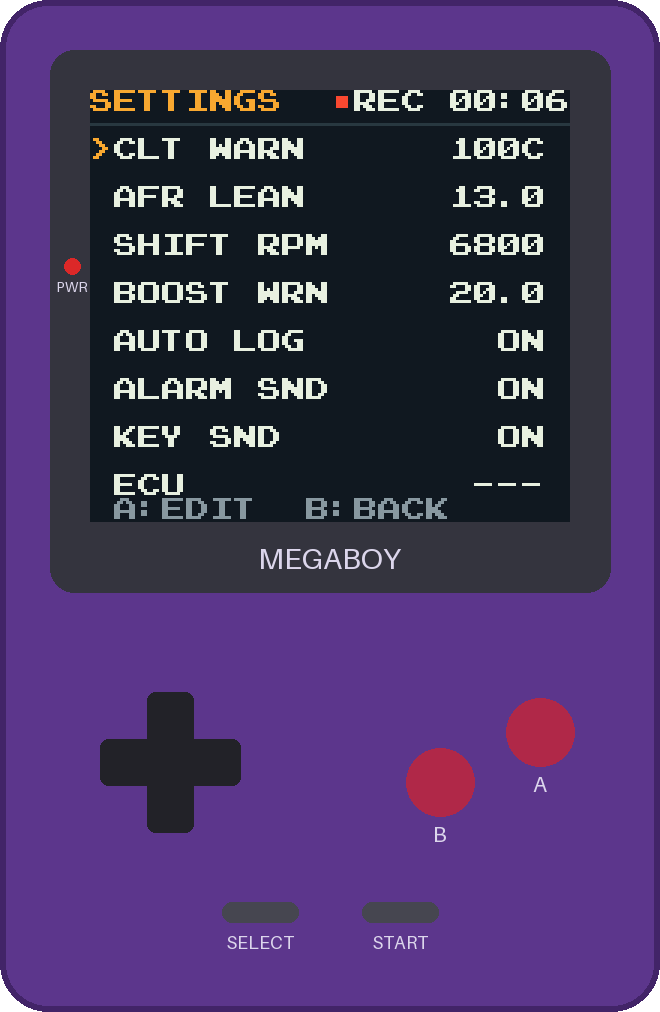
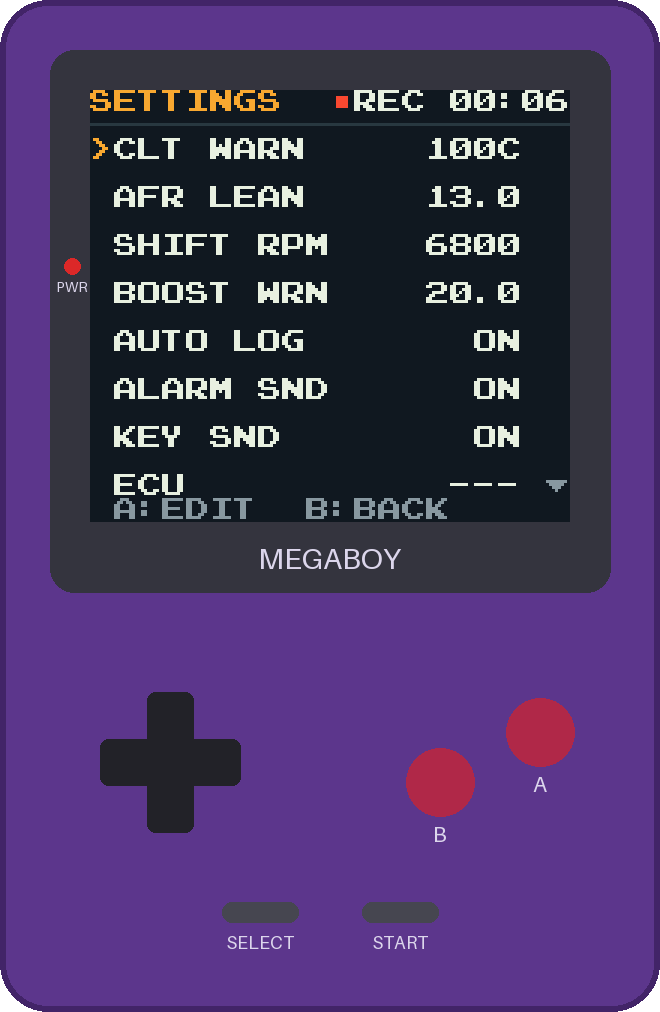
gbc: scroll settings and set clock

diff --git a/gbc/src/settings.c b/gbc/src/settings.c
@@ -5,12 +5,13 @@
 #include "app.h"
 #include "fmt.h"
 #include "hdr.h"
+#include "link.h"
 #include "save.h"
 #include "screen.h"
 #include "tiles.h"
 #include "ui.h"
 
-enum { K_TEMP, K_X10, K_INT, K_ONOFF, K_ECU };
+enum { K_TEMP, K_X10, K_INT, K_ONOFF, K_ECU, K_CLOCK };
 
 typedef struct {
     const char *label;
@@ -30,19 +31,46 @@ static const item_t items[] = {
     {"ALARM SND", &app.set.alarm_snd, 0, 1, 1, K_ONOFF},
     {"KEY SND", &app.set.key_snd, 0, 1, 1, K_ONOFF},
     {"ECU", &app.set.ecu, 0, 2, 1, K_ECU},
+    {"CLOCK", 0, 0, 0, 0, K_CLOCK},
 };
 #define ITEM_COUNT (sizeof items / sizeof items[0])
+#define VISIBLE 8u
 #define ITEM_Y0 2u
-#define VAL_X 13u
+#define VAL_X 12u
 #define VAL_W 6u
+#define MARK_X 19u
 #define FOOTER_Y 17u
 
 static uint8_t sel;
+static uint8_t top;
 static uint8_t editing;
 static int16_t edit_val;
 
 static uint8_t item_y(uint8_t i) {
-    return (uint8_t)(ITEM_Y0 + i * 2u);
+    return (uint8_t)(ITEM_Y0 + (i - top) * 2u);
+}
+
+static uint8_t visible(uint8_t i) {
+    return i >= top && i < top + VISIBLE;
+}
+
+static void draw_clock(uint8_t y) {
+    char s[VAL_W];
+    if (app.clk_state == LINK_CLK_NONE) {
+        ui_text(VAL_X, y, "NO RTC", PAL_DIM);
+        return;
+    }
+    if (app.clk_state != LINK_CLK_OK) {
+        ui_text(VAL_X, y, " UNSET", PAL_AMBER);
+        return;
+    }
+    s[0] = ' ';
+    s[1] = (char)('0' + app.clk.hh / 10u);
+    s[2] = (char)('0' + app.clk.hh % 10u);
+    s[3] = ':';
+    s[4] = (char)('0' + app.clk.mi / 10u);
+    s[5] = (char)('0' + app.clk.mi % 10u);
+    ui_textn(VAL_X, y, s, VAL_W, PAL_TEXT);
 }
 
 static void draw_value(uint8_t i) {
@@ -50,7 +78,16 @@ static void draw_value(uint8_t i) {
     char s[VAL_W];
     uint8_t live = editing && i == sel;
     uint8_t pal = live ? PAL_AMBER : PAL_TEXT;
-    int16_t v = live ? edit_val : *it->val;
+    uint8_t y = item_y(i);
+    int16_t v;
+    if (!visible(i)) {
+        return;
+    }
+    if (it->kind == K_CLOCK) {
+        draw_clock(y);
+        return;
+    }
+    v = live ? edit_val : *it->val;
     switch (it->kind) {
     case K_TEMP:
         fmt_int(s, VAL_W, v, 'C');
@@ -62,20 +99,20 @@ static void draw_value(uint8_t i) {
         fmt_int(s, VAL_W, v, 0);
         break;
     case K_ONOFF:
-        ui_text(VAL_X, item_y(i), v ? "    ON" : "   OFF", pal);
+        ui_text(VAL_X, y, v ? "    ON" : "   OFF", pal);
         return;
     case K_ECU:
-        ui_text(VAL_X, item_y(i), v == 1 ? "   MS1" : (v == 2 ? "   MS2" : "   ---"), pal);
+        ui_text(VAL_X, y, v == 1 ? "   MS1" : (v == 2 ? "   MS2" : "   ---"), pal);
         return;
     default:
         return;
     }
-    ui_textn(VAL_X, item_y(i), s, VAL_W, pal);
+    ui_textn(VAL_X, y, s, VAL_W, pal);
 }
 
 static void draw_cursor(void) {
     uint8_t i;
-    for (i = 0; i < ITEM_COUNT; i++) {
+    for (i = top; i < top + VISIBLE && i < ITEM_COUNT; i++) {
         uint8_t t = T_SPACE;
         if (i == sel) {
             t = tile_small(editing ? '*' : '>');
@@ -84,14 +121,48 @@ static void draw_cursor(void) {
     }
 }
 
+static void draw_list(void) {
+    uint8_t i;
+    uint8_t y;
+    for (y = ITEM_Y0; y < ITEM_Y0 + VISIBLE * 2u; y += 2u) {
+        ui_text(1, y, "                  ", PAL_TEXT);
+    }
+    for (i = top; i < top + VISIBLE && i < ITEM_COUNT; i++) {
+        ui_text(1, item_y(i), items[i].label, PAL_TEXT);
+        draw_value(i);
+    }
+    ui_tile(MARK_X, ITEM_Y0, top ? tile_small(CH_UP) : T_SPACE, PAL_DIM);
+    ui_tile(MARK_X, (uint8_t)(ITEM_Y0 + (VISIBLE - 1u) * 2u), top + VISIBLE < ITEM_COUNT ? tile_small(CH_DOWN) : T_SPACE,
+            PAL_DIM);
+    draw_cursor();
+}
+
 static void draw_footer(void) {
     ui_text(1, FOOTER_Y, editing ? "A:OK  B:CANCEL" : "A:EDIT  B:BACK", PAL_DIM);
+}
+
+static void sel_item(uint8_t i) {
+    uint8_t old = top;
+    sel = i;
+    if (sel < top) {
+        top = sel;
+    } else if (sel >= top + VISIBLE) {
+        top = (uint8_t)(sel - VISIBLE + 1u);
+    }
+    if (top != old) {
+        draw_list();
+    } else {
+        draw_cursor();
+    }
 }
 
 void settings_clamp(void) {
     uint8_t i;
     for (i = 0; i < ITEM_COUNT; i++) {
         int16_t *v = items[i].val;
+        if (!v) {
+            continue;
+        }
         if (*v < items[i].min) {
             *v = items[i].min;
         }
@@ -102,20 +173,19 @@ void settings_clamp(void) {
 }
 
 void settings_enter(void) {
-    uint8_t i;
     editing = 0;
     ui_clear();
     hdr_draw("SETTINGS");
-    for (i = 0; i < ITEM_COUNT; i++) {
-        ui_text(1, item_y(i), items[i].label, PAL_TEXT);
-        draw_value(i);
-    }
+    draw_list();
     draw_footer();
-    draw_cursor();
 }
 
 void settings_tick(void) {
+    uint8_t last = ITEM_COUNT - 1u;
     hdr_tick();
+    if (items[last].kind == K_CLOCK) {
+        draw_value(last);
+    }
 }
 
 static void edit_input(uint8_t pressed) {
@@ -152,12 +222,16 @@ void settings_input(uint8_t pressed) {
         return;
     }
     if (pressed & J_UP) {
-        sel = (uint8_t)((sel + ITEM_COUNT - 1u) % ITEM_COUNT);
-        draw_cursor();
+        sel_item((uint8_t)((sel + ITEM_COUNT - 1u) % ITEM_COUNT));
     } else if (pressed & J_DOWN) {
-        sel = (uint8_t)((sel + 1u) % ITEM_COUNT);
-        draw_cursor();
+        sel_item((uint8_t)((sel + 1u) % ITEM_COUNT));
     } else if (pressed & J_A) {
+        if (items[sel].kind == K_CLOCK) {
+            if (app.src == SRC_LINK && app.clk_state != LINK_CLK_NONE) {
+                screen_go(SCR_CLOCK);
+            }
+            return;
+        }
         editing = 1;
         edit_val = *items[sel].val;
         draw_value(sel);

diff --git a/gbc/src/clockset.c b/gbc/src/clockset.c
@@ -1,0 +1,153 @@
+#include "clockset.h"
+
+#include <gb/gb.h>
+
+#include "app.h"
+#include "hdr.h"
+#include "link.h"
+#include "linkrx.h"
+#include "rtc.h"
+#include "screen.h"
+#include "tiles.h"
+#include "ui.h"
+
+#define F_COUNT 6u
+#define DATE_Y 6u
+#define TIME_Y 10u
+#define NOW_Y 13u
+#define MSG_Y 17u
+
+typedef struct {
+    uint8_t x;
+    uint8_t y;
+    uint8_t min;
+    uint8_t max;
+} field_t;
+
+static const field_t fields[F_COUNT] = {
+    {9, DATE_Y, 0, 99},
+    {12, DATE_Y, 1, 12},
+    {15, DATE_Y, 1, 31},
+    {9, TIME_Y, 0, 23},
+    {12, TIME_Y, 0, 59},
+    {15, TIME_Y, 0, 59},
+};
+
+static rtc_time_t t;
+static uint8_t f;
+
+static uint8_t *field_ptr(uint8_t i) {
+    switch (i) {
+    case 0:
+        return &t.yy;
+    case 1:
+        return &t.mo;
+    case 2:
+        return &t.dd;
+    case 3:
+        return &t.hh;
+    case 4:
+        return &t.mi;
+    default:
+        return &t.ss;
+    }
+}
+
+static void two(char *s, uint8_t v) {
+    s[0] = (char)('0' + v / 10u);
+    s[1] = (char)('0' + v % 10u);
+}
+
+static void draw_fields(void) {
+    uint8_t i;
+    char s[2];
+    for (i = 0; i < F_COUNT; i++) {
+        two(s, *field_ptr(i));
+        ui_textn(fields[i].x, fields[i].y, s, 2, i == f ? PAL_AMBER : PAL_TEXT);
+    }
+}
+
+static void draw_now(void) {
+    char s[8];
+    if (app.clk_state != LINK_CLK_OK) {
+        ui_text(9, NOW_Y, "UNSET   ", PAL_AMBER);
+        return;
+    }
+    two(s, app.clk.hh);
+    s[2] = ':';
+    two(s + 3, app.clk.mi);
+    s[5] = ':';
+    two(s + 6, app.clk.ss);
+    ui_textn(9, NOW_Y, s, 8, PAL_DIM);
+}
+
+static void clamp_day(void) {
+    uint8_t d = rtc_days(t.yy, t.mo);
+    if (t.dd > d) {
+        t.dd = d;
+    }
+}
+
+void clockset_enter(void) {
+    if (app.clk_state == LINK_CLK_OK) {
+        t = app.clk;
+    } else {
+        t.yy = 26;
+        t.mo = 1;
+        t.dd = 1;
+        t.hh = 12;
+        t.mi = 0;
+        t.ss = 0;
+    }
+    f = 0;
+    ui_clear();
+    hdr_draw("CLOCK");
+    ui_text(1, DATE_Y, "DATE", PAL_DIM);
+    ui_text(7, DATE_Y, "20  -  -", PAL_TEXT);
+    ui_text(1, TIME_Y, "TIME", PAL_DIM);
+    ui_text(11, TIME_Y, ":  :", PAL_TEXT);
+    ui_text(1, NOW_Y, "RTC", PAL_DIM);
+    ui_divider(15);
+    ui_text(1, 16, "A:SET  B:BACK", PAL_DIM);
+    draw_fields();
+    draw_now();
+}
+
+void clockset_tick(void) {
+    hdr_tick();
+    draw_now();
+}
+
+void clockset_input(uint8_t pressed) {
+    uint8_t *v = field_ptr(f);
+    const field_t *fd = &fields[f];
+    uint8_t max = f == 2u ? rtc_days(t.yy, t.mo) : fd->max;
+    uint8_t pl[LINK_TIME_SET_LEN];
+    if (pressed & J_LEFT) {
+        f = (uint8_t)((f + F_COUNT - 1u) % F_COUNT);
+    } else if (pressed & J_RIGHT) {
+        f = (uint8_t)((f + 1u) % F_COUNT);
+    } else if (pressed & J_UP) {
+        *v = *v >= max ? fd->min : (uint8_t)(*v + 1u);
+        clamp_day();
+    } else if (pressed & J_DOWN) {
+        *v = *v <= fd->min ? max : (uint8_t)(*v - 1u);
+        clamp_day();
+    } else if (pressed & J_A) {
+        if (!rtc_valid(&t)) {
+            ui_text(1, MSG_Y, "BAD DATE", PAL_RED);
+            return;
+        }
+        link_put_time(pl, &t);
+        if (!linkrx_send(LINK_C_TIME, pl, LINK_TIME_SET_LEN)) {
+            ui_text(1, MSG_Y, "BUSY    ", PAL_RED);
+            return;
+        }
+        screen_go(SCR_SETTINGS);
+        return;
+    } else if (pressed & J_B) {
+        screen_go(SCR_SETTINGS);
+        return;
+    }
+    draw_fields();
+}

diff --git a/gbc/src/screen.c b/gbc/src/screen.c
@@ -5,6 +5,7 @@
 #include "about.h"
 #include "app.h"
 #include "boost.h"
+#include "clockset.h"
 #include "dash.h"
 #include "logpage.h"
 #include "menu.h"
@@ -23,6 +24,7 @@ static const screen_t screens[SCR_COUNT] = {
     {tunemenu_enter, tunemenu_tick, tunemenu_input},
     {about_enter, about_tick, about_input},
     {tedit_enter, tedit_tick, tedit_input},
+    {clockset_enter, clockset_tick, clockset_input},
 };
 
 static const uint8_t pages[] = {SCR_DASH, SCR_BOOST, SCR_LOG};

diff --git a/gbc/src/clockset.h b/gbc/src/clockset.h
@@ -1,0 +1,7 @@
+#pragma once
+
+#include <stdint.h>
+
+void clockset_enter(void);
+void clockset_tick(void);
+void clockset_input(uint8_t pressed);

diff --git a/gbc/src/screen.h b/gbc/src/screen.h
@@ -18,6 +18,7 @@ enum {
     SCR_TUNE,
     SCR_ABOUT,
     SCR_TEDIT,
+    SCR_CLOCK,
     SCR_COUNT
 };
 
